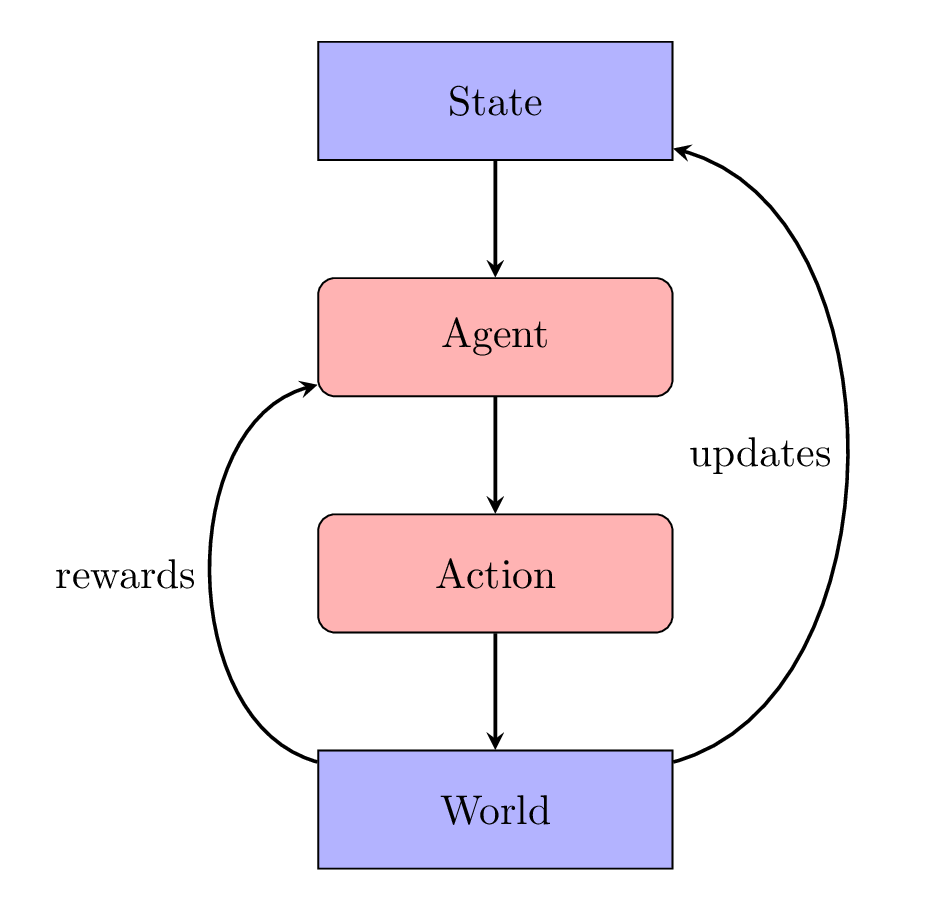
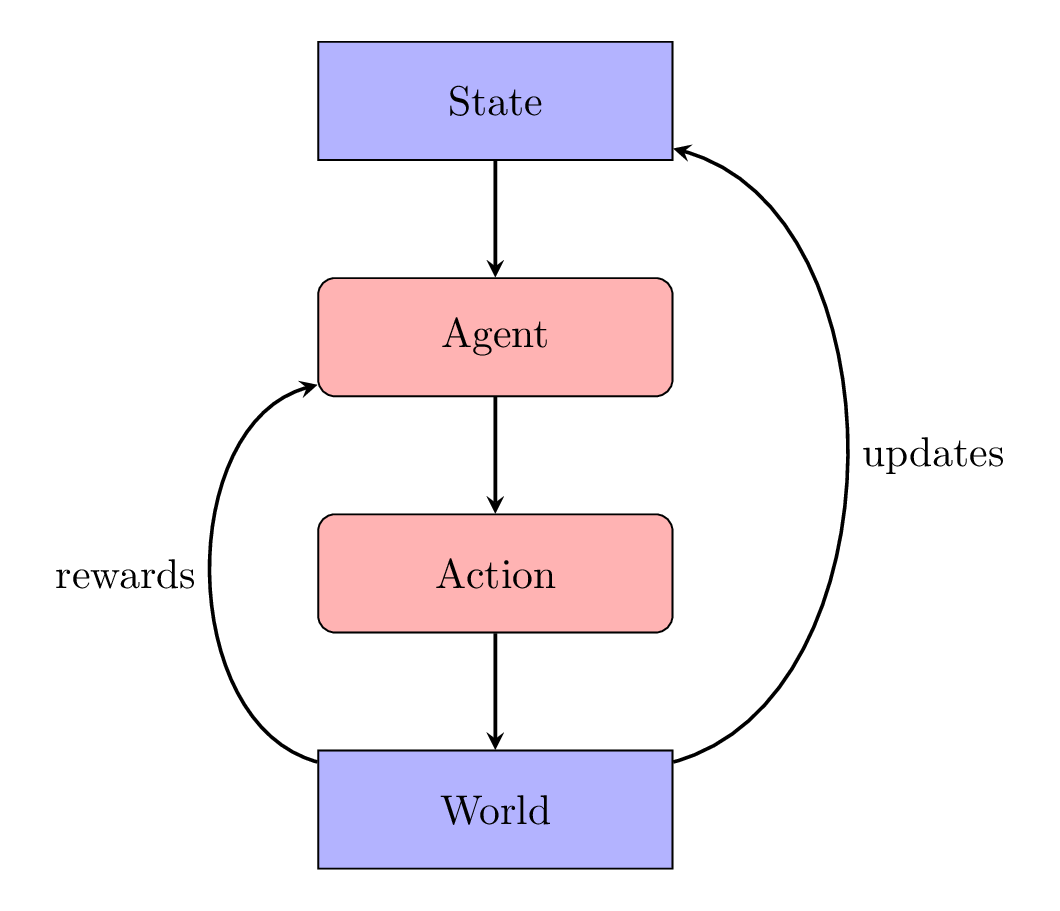
updated readme and started working again

diff --git a/flowchart.tex b/flowchart.tex
@@ -20,7 +20,7 @@
     \draw [arrow] (state) -- (agent);
     \draw [arrow] (agent) -- (action);
     \draw [arrow] (action) -- (world);
-    \draw [arrow] (world) to [bend right=75] node[left] {updates} (state);
+    \draw [arrow] (world) to [bend right=75] node[right] {updates} (state);
     \draw [arrow] (world) to [bend left=75] node[left] {rewards} (agent);
 \end{tikzpicture}
 \end{document}

diff --git a/main.py b/main.py
@@ -1,6 +1,6 @@
 import flappy_bird_gymnasium
 import gymnasium
-env = gymnasium.make("FlappyBird-v0", render_mode="human", use_lidar=True)
+env = gymnasium.make("FlappyBird-v0", render_mode="human")
 
 obs, _ = env.reset()
 while True:

diff --git a/README.md b/README.md
@@ -1,13 +1,18 @@
 # Flappy Bird Reinforcement Learning
- The idea behind this project is to create a bot that can play flappy bird.[^1] The bot interacts with the world similarly to how a human would play a video game. There are timesteps that happen at very quick intervals. At each interval, the bot gets too choose which move to make given the state of the world. It's actions impact the state of the world. 
 
-![Image](images/chart.png)
+Reinforcment learning(RL) is a subset of machine learning where a decision-making algorithm (agent) lives in a simulation and learns how to maximize a scalar reward signal. The scalar reward is continuously fed to the agent as it makes decisions through the simulation. The agent is able to replay the simulation multiple times and can collect data to improves its decision making iteratively over multiple runs.
+
+ In this project, I create an reinforcement learning agent that can play flappy bird[^1]. Flappy bird is an extremely simple game where the objective is to control when a bird "flaps" its wings and flies in the air. The bird must flap it's wings often enough that it doesn't fall down, but not so often that it goes off screen and hits the ceiling. 
+ 
+ The bot interacts with the world similarly to how a human would play a video game. There are timesteps that happen at very quick intervals. At each interval, the bot gets too choose which move to make given the state of the world. It's actions impact the state of the world, and the rewards that it receives. 
+
+<img src="images/chart.png" width="500">
 
 In this flappy bird game, the state updates are going to happen approximately every 1/30th of a second (aka the framerate) and the agent is responsible for making decisions at each one of thise timeframes. The state is  measured characteristics like altitude, velocity, distance to next pipe, gap between pipes. The agent is then responsible for answering "Given the state, it is better to jump or not to jump?". The math way of saying this used in popular RL literature like [Sutton and Barto](http://incompleteideas.net/book/RLbook2020.pdf) is 
 
 $$
 S = \in \mathbb{R}^{n}\\
-A = \in  \{0,1\}\\s
+A = \in  \{0,1\}\\
 (S,A) \rightarrow (S', R)
 $$
 
